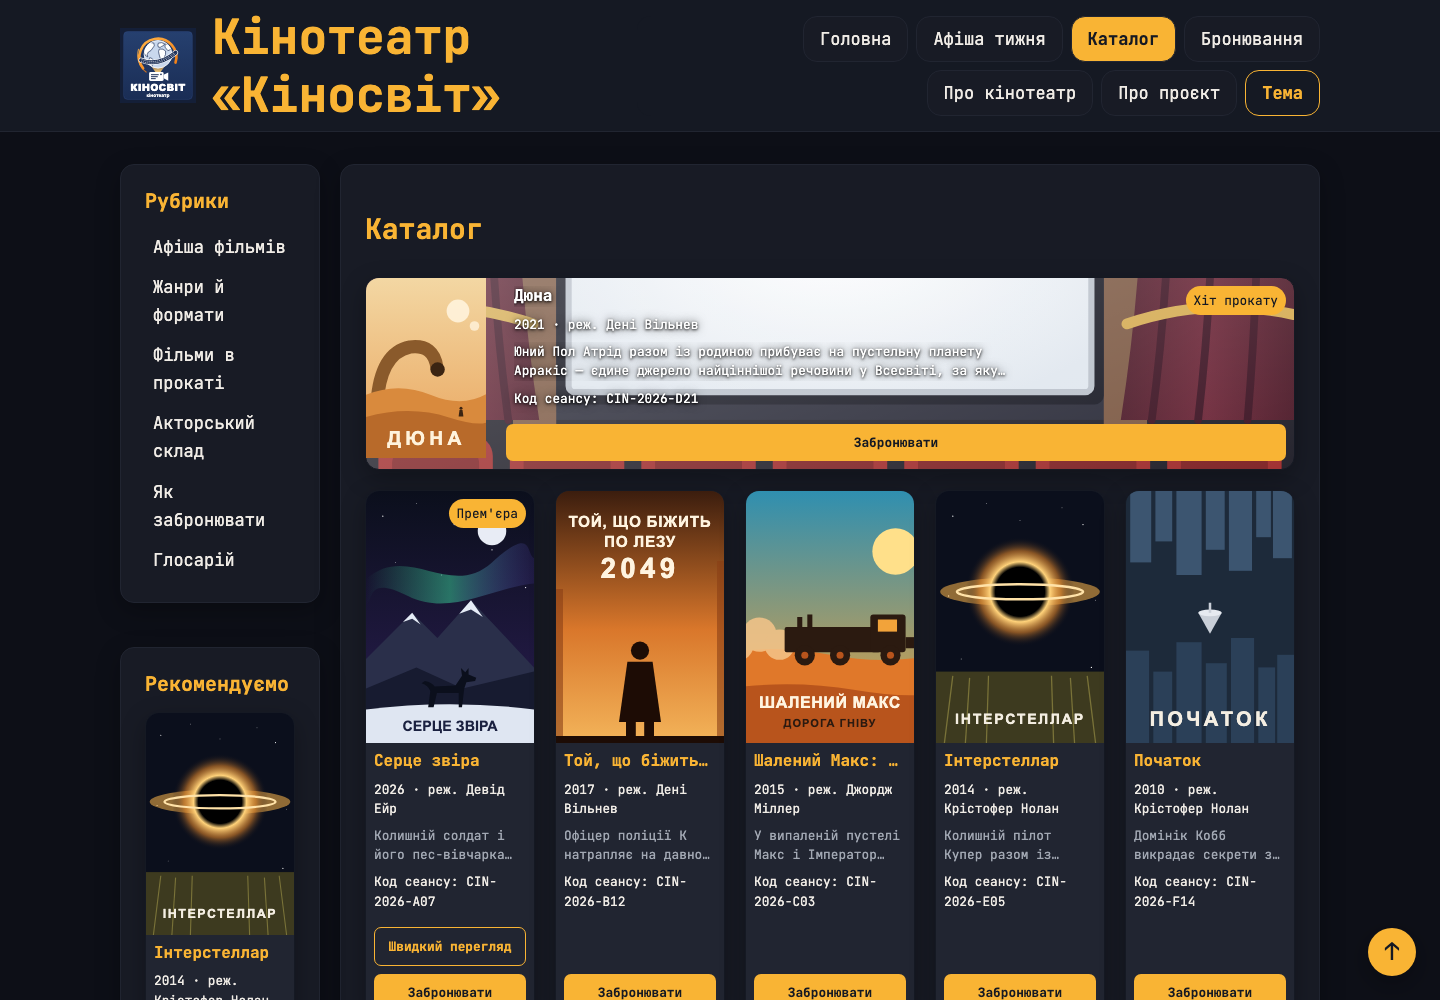
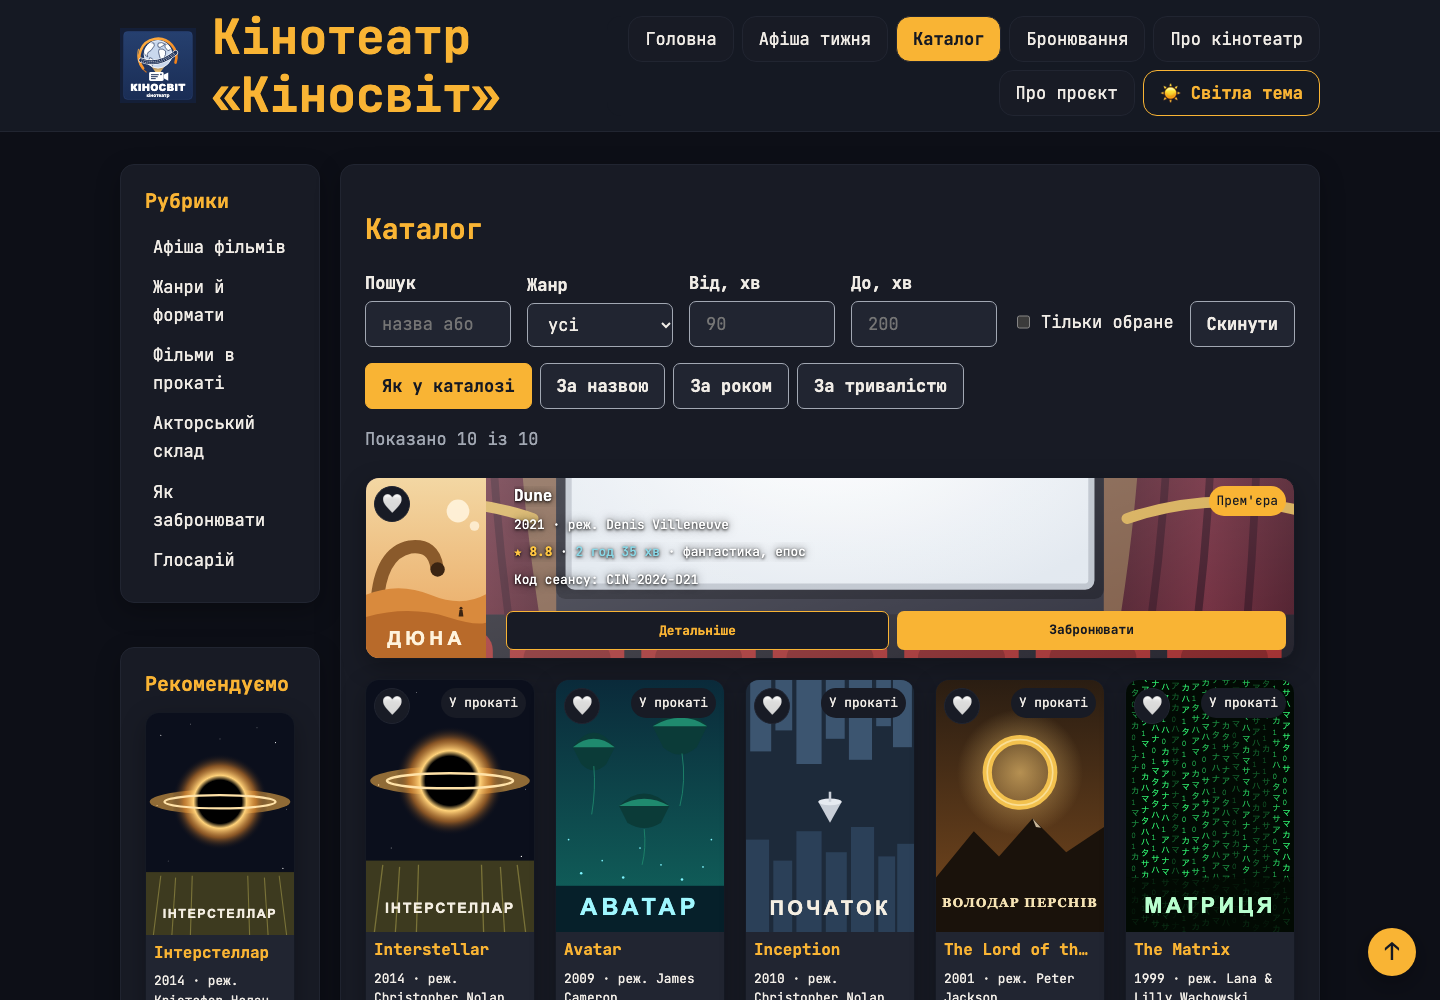
LR10: README, скріншоти, перевірка безпеки

diff --git a/README.md b/README.md
@@ -2,6 +2,10 @@
 
 Сайт кінотеатру «Кіносвіт», варіант 4.
 
+## Проєкт
+
+«Кіносвіт» — онлайн-кінотеатр (варіант 4): головна сторінка з афішею, каталог фільмів, форма бронювання й сторінка про проєкт. Каталог завантажує десять фільмів із `data.json` і малює картки з постером, рейтингом, тривалістю й кодом сеансу. Фільми можна шукати за назвою чи режисером, фільтрувати за жанром, тривалістю й «обраним», сортувати й відкривати у вікні з повною інформацією: акторським складом, місцями зйомок і касовими зборами з обчисленим прибутком. Сайт адаптований від 360px до широкого екрана, пам'ятає обрані фільми й тему, а форма бронювання перевіряє дані ще в браузері.
+
 ## Оформлення
 
 - **Шрифт:** одна гарнітура JetBrains Mono (400 і 700, з кирилицею), підключена через `@import` з Google Fonts; запасний — системний `monospace`.
@@ -144,7 +148,7 @@
 
 5. **Друк.** У `@media print` прибрано навігацію, бічну колонку й кнопки, тіні, палітру зведено до чорного на білому, усі `<details>` розгорнуто, а постерів у ряду п'ять. Результат — [`print/catalog.pdf`](print/catalog.pdf). Це єдине місце в роботі, де доречно не додавати, а прибирати й ховати навігацію через `display: none`: на екрані будь-якої ширини меню потрібне, а на папері ним неможливо скористатися, і аркуш — це фіксована вузька «сторінка», яку можна лише спростити.
 
-## Дані варіанта
+## Дані варіанта (LR8)
 
 У `js/app.js` масив `films` — одинадцять фільмів «Кіносвіту» (у LR8 їх було шість), спрощених із `variants-data/variant04.json`. Поля однакові в усіх записах і названі латиницею в camelCase:
 
@@ -219,6 +223,8 @@
 
 Самоатака рядком `<img src="x" onerror="alert('XSS')">` у пошуку, у полях «Прізвище та ім'я» й «Коментар»: рядок показано буквально в порожньому стані, квитанції та тості, вікно не з'явилося, елемента `img` не створено, консоль чиста. Назва `Огляд <нових> надходжень`, тимчасово підставлена у фільм, теж відобразилася як текст. Вразливостей не знайдено; `innerHTML` у `js/app.js` — нуль збігів.
 
+У LR10 перевірено й дані з мережі: у назву Interstellar у `data.json` тимчасово підставлено той самий рядок — він показався текстом у картці, підписі на постері, `alt`, результатах пошуку й модалці, вікно не з'явилося; після перевірки `data.json` повернуто у вихідний стан (побайтово збігається з файлом варіанта).
+
 Правило: дані, які можуть прийти ззовні, ніколи не перетворюються на розмітку. Елементи створює `createElement`, а текст потрапляє в них лише через `textContent`, тому браузер не сприймає його як HTML.
 
 ## Перевірка валідатором W3C (LR9)
@@ -239,23 +245,31 @@
 5. **Клавіатура і фокус.** «Детальніше» — справжня кнопка `<button>`: Enter відкриває вікно, а після Esc `<dialog>` сам повертає фокус на цю кнопку (перевірено).
 6. **`DocumentFragment`.** 2000 згенерованих карток, медіана 7 запусків у Chrome: пряме додавання — 17 мс коду і 148,5 мс разом із розкладкою, фрагмент — 19 мс і 165,8 мс. Виграшу в цьому вимірі немає: браузер і так відкладає розкладку до кінця циклу, поки її ніхто не запитує. Фрагмент лишено, бо вставка в сторінку відбувається однією операцією.
 
-## Дані (LR10)
+## Дані
 
-Дані варіанта лежать у `data.json` у корені — це файл викладача без жодних змін: 10 фільмів, у кожного прості поля `title`, `year`, `duration_min`, `director`, масив рядків `genres` і `locations`, масив об'єктів `cast` (`name`, `role`), вкладений об'єкт `boxOffice` (`budget_million`, `gross_worldwide_million`) і масив чисел `ratings`. Особливості: прибутку у файлі немає — його обчислюємо як збори мінус бюджет; у двох фільмів (The Shawshank Redemption і Gladiator) в акторському складі двоє акторів замість трьох; поля `id` немає, тож номер за порядком додається в коді після завантаження, а постери, коди сеансів і бейдж «Прем'єра» задано в `js/app.js` за назвою фільму.
+Дані лежать у `data.json` у корені — це файл варіанта без жодних змін, десять фільмів. Структура запису:
 
-`js/app.js` завантажує файл через `fetch` в `async`-функції `loadData()`, а `init()` малює каталог лише після того, як дані прийшли; якщо файл не завантажився, над каталогом з'являється повідомлення з кодом помилки (перевірено з `data-oops.json` — HTTP 404).
+- прості поля: `title`, `year`, `duration_min`, `director`;
+- масиви рядків: `genres` (жанри) і `locations` (місця зйомок);
+- масив об'єктів `cast` — актори з полями `name` і `role`;
+- вкладений об'єкт `boxOffice` з полями `budget_million` і `gross_worldwide_million`;
+- масив чисел `ratings` — оцінки глядачів.
+
+«Родзинка» даних — прибуток, якого у файлі немає: функція `profitOf` рахує його як збори мінус бюджет, а `formatMoney` показує в повних доларах із розділювачами розрядів. Інші особливості: у The Shawshank Redemption і Gladiator в акторському складі двоє людей замість трьох, тому таблиця бере стовпці з ключів і рядки з масиву, а не з фіксованої кількості; поля `id` у файлі немає, тож `loadData` додає номер за порядком у копію даних; постери, коди сеансів і бейдж «Прем'єра» задано в `js/app.js` за назвою фільму, а англійські жанри перекладено для сторінки.
 
 Секцію «Демонстрація роботи» з LR8 разом із хелпером `show()` і функціями лише для неї прибрано: тепер дані приходять асинхронно, а картки, пошук, фільтри й модалка показують те саме краще і вже за справжніми даними з файлу.
 
-## Спінер і помилки завантаження (LR10)
+## Завантаження
 
-Спінер зі скелетом карток із LR7 показується перед `init()` і ховається лише в `finally`, тож зникає і після успіху, і після помилки.
+`loadData()` — `async`-функція: `await fetch("data.json")` чекає на відповідь сервера, далі перевіряється `response.ok`, `await response.json()` перетворює текст на масив об'єктів, і ще одна перевірка відкидає порожній чи неправильний файл. `response.ok` потрібна, бо `fetch` вважає відповідь «404» чи «500» успішною доставкою й помилки не кидає — без перевірки ми б не потрапили в `catch`, а намагалися б розібрати сторінку помилки як дані. `init()` викликає `loadData()` у `try`, після `await` генерує список жанрів і малює картки через `applyFilters()`, у `catch` показує повідомлення, а `finally` ховає спінер — і після успіху, і після помилки; якби спінер ховався в кінці `try`, при помилці він крутився б далі поруч із повідомленням.
 
 ![Спінер під час завантаження data.json](images/screens/loader.png)
 
 Скріншот зроблено, поки `data.json` ще завантажувався: локальний сервер навмисно віддавав файл із затримкою.
 
-Якщо дані не прийшли, над каталогом з'являється повідомлення з порадою і технічними подробицями (`role="alert"` — читалка озвучує його одразу). Перевірено три сценарії, у кожному спінер сховано:
+## Що бачить користувач, коли сталася помилка
+
+Над каталогом з'являється блок `#load-error` із `role="alert"` (читалка озвучує його одразу): «Не вдалося завантажити каталог. Перевірте з'єднання і оновіть сторінку. Технічні подробиці: …», а спінер ховається. Перевірено три сценарії:
 
 | Сценарій | Технічні подробиці в повідомленні |
 |---|---|
@@ -268,3 +282,18 @@
 Картки малює та сама `renderCards` із LR9 — змінилися лише імена полів на ті, що в `data.json` (`duration_min`, `boxOffice.budget_million`…). У кожній картці середній рейтинг (`.toFixed(1)`) і тривалість мають власні стилі з LR4, а над сіткою — лічильник «Показано N із 10».
 
 Модалка показує все, що є у записі: прості поля парами в `<dl>`, касові збори перебором ключів `boxOffice` разом з обчисленим прибутком (збори − бюджет) у повних доларах з розділювачами розрядів (`toLocaleString("uk-UA")`), місця зйомок списком `<ul>` і акторський склад таблицею, стовпці якої беруться з ключів першого актора. Перед кожним відкриттям усі секції очищаються через `replaceChildren()`; перевірено на всіх десяти фільмах, зокрема на двох, де акторів двоє, а не троє.
+
+## Пам'ять
+
+У `localStorage` лежать рівно два ключі: `favorites` — масив id обраних фільмів у вигляді рядка JSON (`JSON.stringify` при записі, `JSON.parse` у `try/catch` при читанні, бо вміст могли зіпсувати), і `theme` — `"dark"` або `"light"`. Тема спершу береться зі сховища й лише потім із системної схеми, бо збережене значення — це свідомий вибір людини, і він важливіший за загальне налаштування системи. Нічого чутливого в сховищі немає: `localStorage` читає будь-який скрипт на сторінці, тож логіни, паролі й токени там зберігати не можна навіть «для прикладу».
+
+![Ключі favorites і theme у DevTools → Application → Local Storage](images/screens/storage.png)
+
+## Перевірка валідатором W3C (LR10)
+
+| Сторінка | Errors до | Errors після |
+|---|---|---|
+| `index.html` | 0 | 0 |
+| `catalog.html` | 0 | 0 |
+| `form.html` | 0 | 0 |
+| `about.html` | 0 | 0 |
